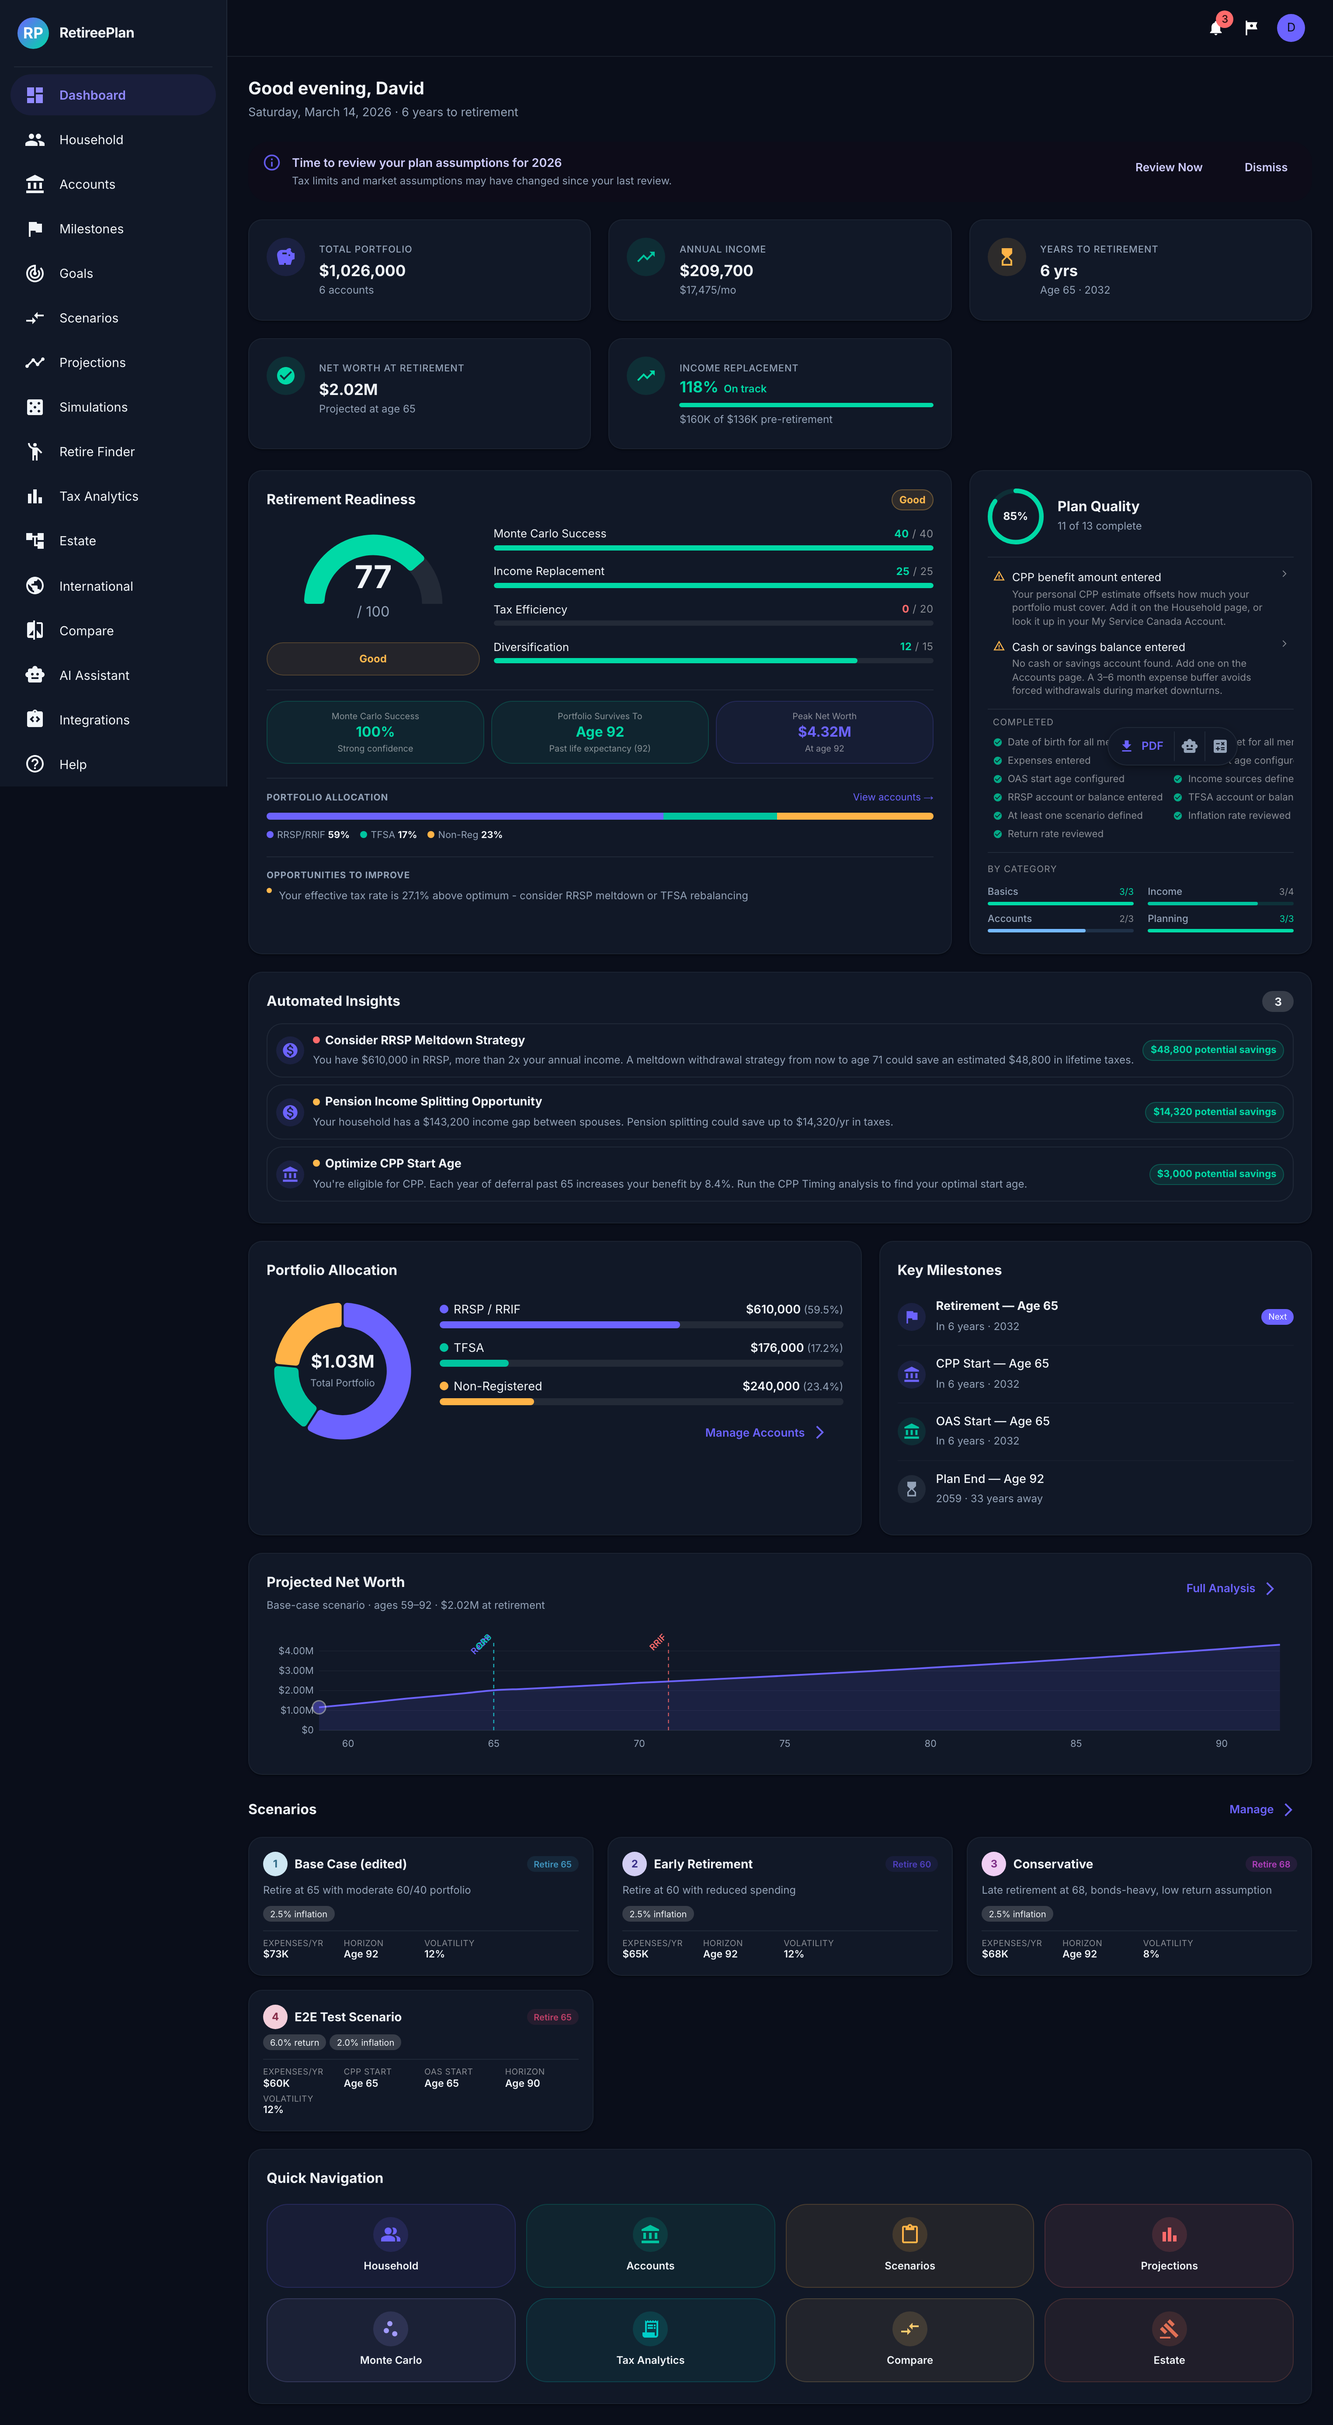
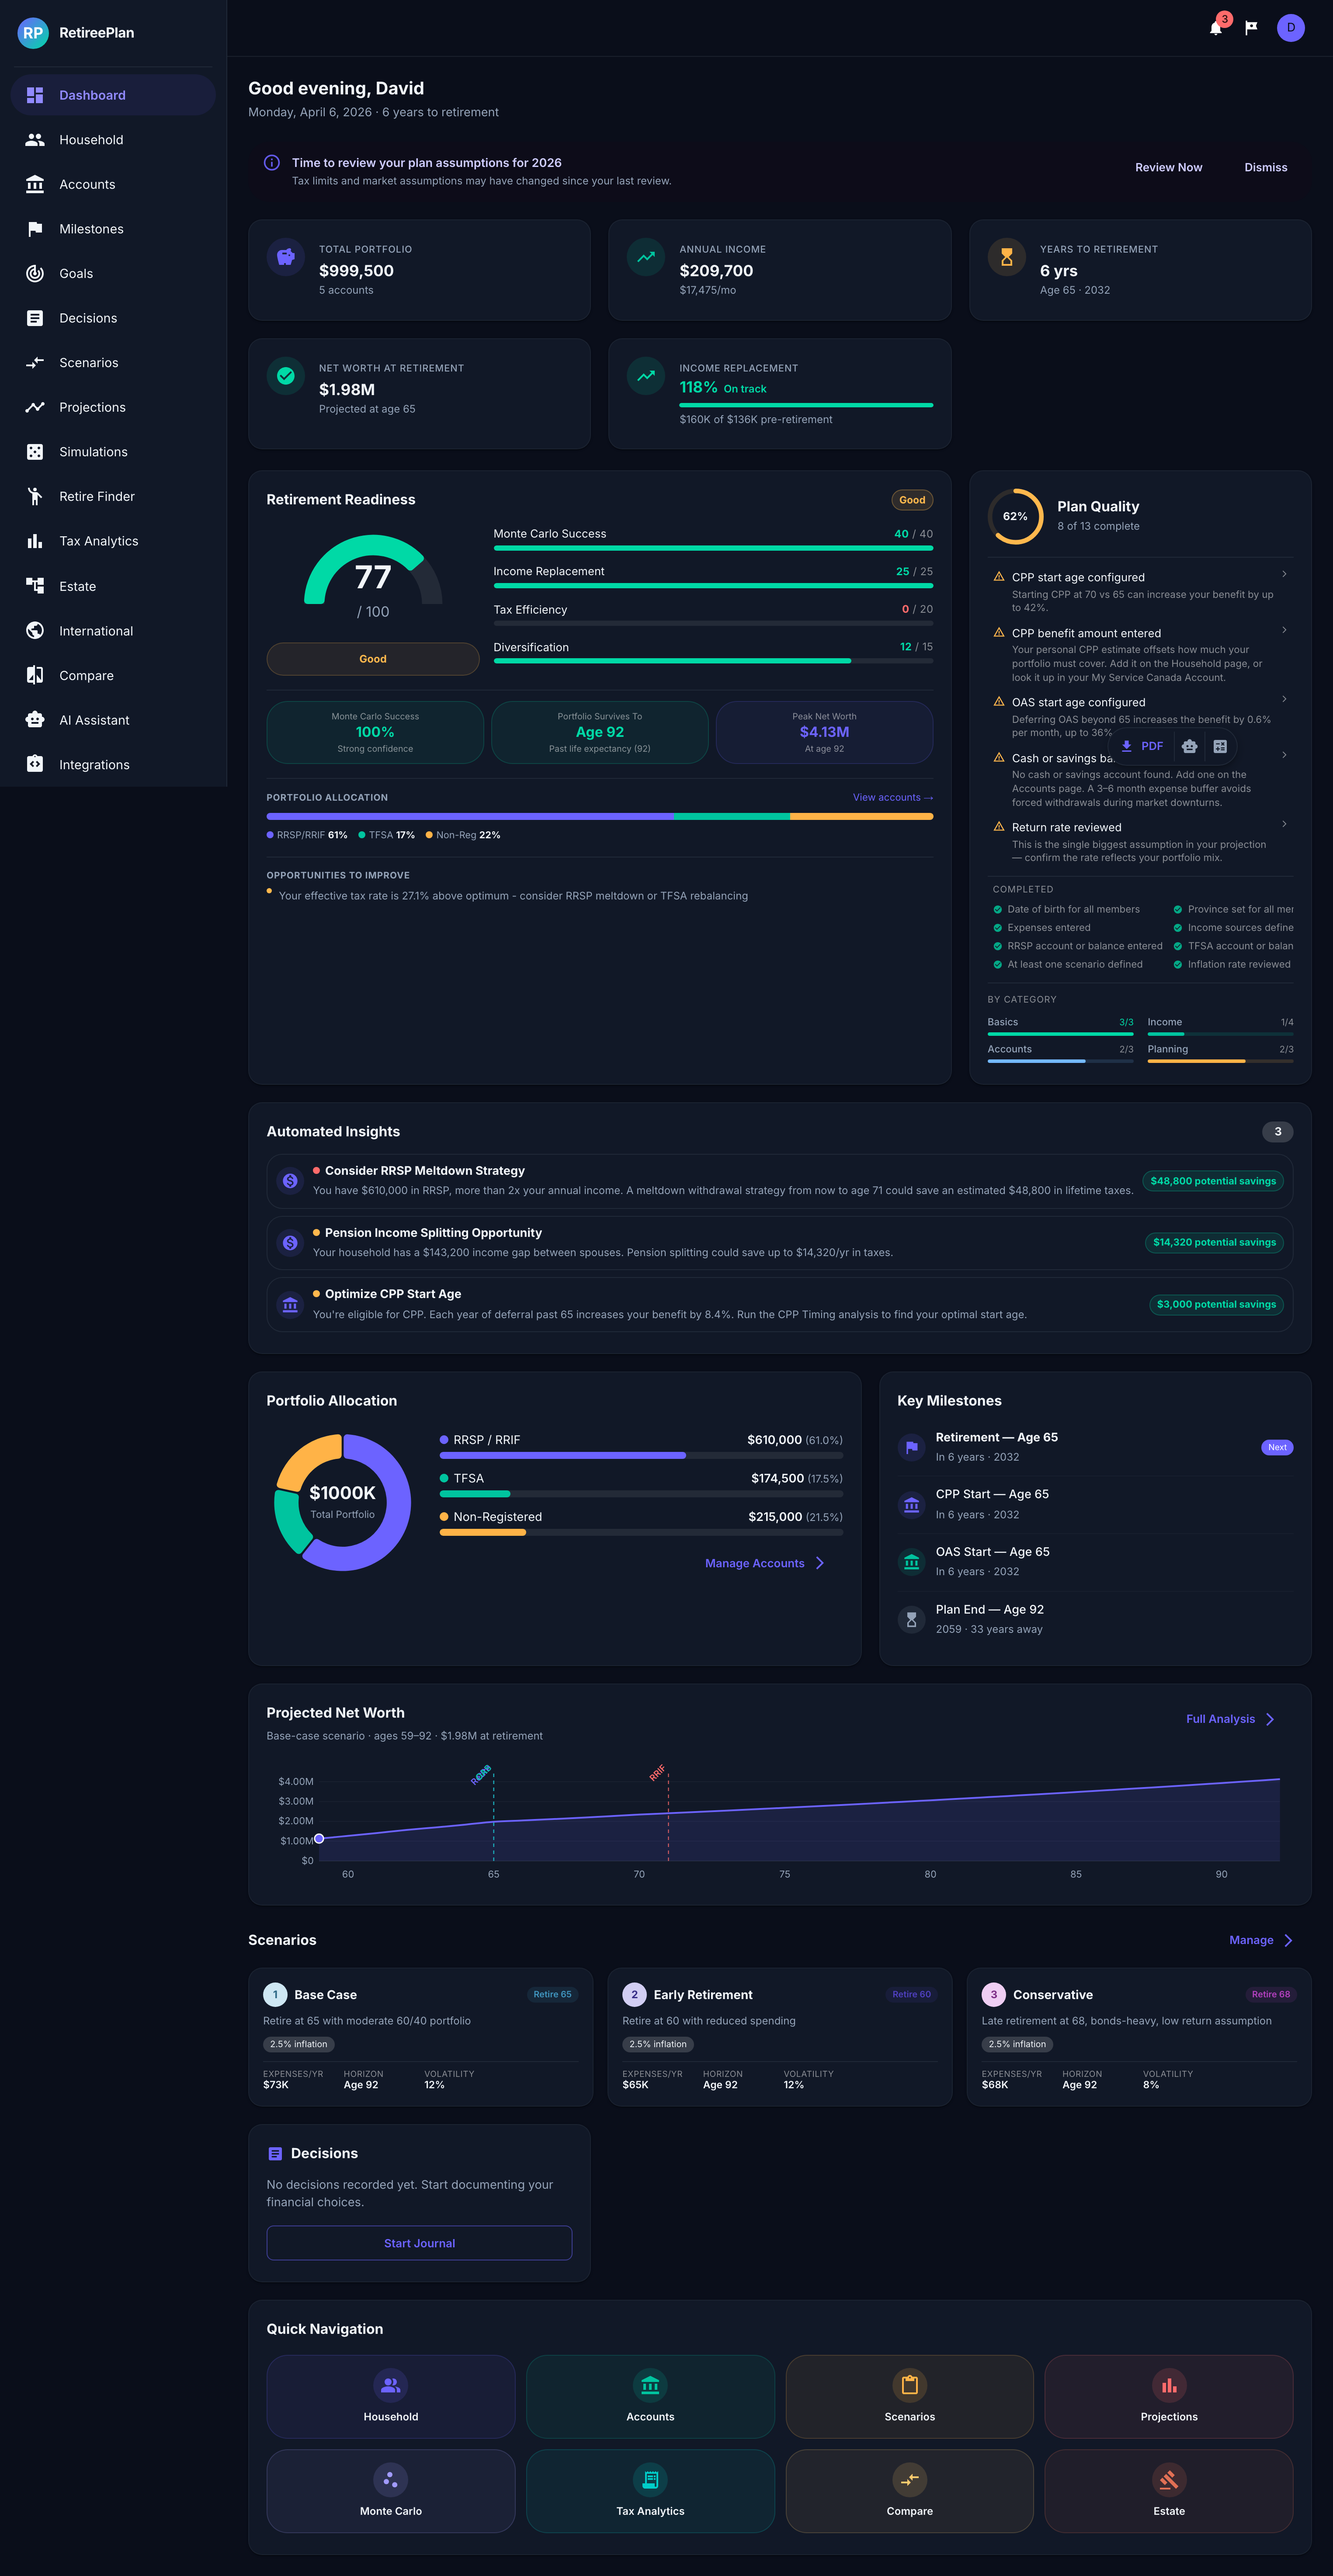
release: v0.0.36 — Decision Journal, security updates, docs refresh
Feature:
- Decision Journal + Mind Map (ADR-style tracking, D3 force graph, timeline view)
- Dashboard card showing decided/proposed/overdue counts
- Decisions sidebar nav item and /decisions route

Security / Dependency updates (Dependabot):
- electron 41.1.0 → 41.1.1
- @github/copilot-sdk ^0.2.0 → ^0.2.1
- @libsql/darwin-arm64 0.5.28 → 0.5.29
- @libsql/linux-x64-gnu 0.5.28 → 0.5.29
- @libsql/linux-x64-musl 0.5.28 → 0.5.29
- @nestjs/* ^11.1.16/^11.0.0 → ^11.1.18/^11.0.17
- @playwright/test ^1.52.0/^1.58.2 → ^1.59.1
- @rolldown/binding-darwin-x64 1.0.0-rc.12 → 1.0.0-rc.13
- @tanstack/react-query ^5.95.0 → ^5.96.2
- vite ^8.0.3 → ^8.0.4

Docs / Demo:
- decisions + mind map feature card in docs/index.html
- 2 new screenshots: 17-decisions.png, 18-decision-mindmap.png
- All 18 screenshots refreshed (onboarding suppressed)
- take-screenshots.ts: adds /decisions page + context.addInitScript for rp_onboarded

diff --git a/scripts/_screenshot-mindmap.ts b/scripts/_screenshot-mindmap.ts
@@ -1,0 +1,43 @@
+import { chromium } from 'playwright';
+import * as path from 'path';
+
+const BASE_URL = 'http://localhost:5173';
+const OUT = path.resolve(__dirname, '../docs/screenshots');
+
+(async () => {
+  const browser = await chromium.launch({ headless: true });
+  const ctx = await browser.newContext({
+    viewport: { width: 1440, height: 900 },
+    deviceScaleFactor: 2,
+  });
+  const page = await ctx.newPage();
+
+  await page.addInitScript(() => localStorage.setItem('rp_onboarded', 'true'));
+
+  // login
+  await page.goto(`${BASE_URL}/login`, { waitUntil: 'domcontentloaded' });
+  await page.fill('input[type="email"]', 'test@retireeplan.dev');
+  await page.fill('input[type="password"]', 'TestPassword123!');
+  await page.click('button[type="submit"]');
+  await page.waitForURL((u) => !u.pathname.includes('/login'), { timeout: 15_000 });
+
+  // navigate to decisions
+  await page.goto(`${BASE_URL}/decisions`, { waitUntil: 'domcontentloaded' });
+  await page.waitForSelector('text=Decision Journal', { timeout: 10_000 });
+  // Dismiss any open modal/dialog (e.g. onboarding wizard)
+  const closeBtn = page.locator('[role="dialog"] button[aria-label="Close"], [role="dialog"] button:has-text("×")');
+  if (await closeBtn.isVisible().catch(() => false)) await closeBtn.click();
+  await page.waitForTimeout(1000);
+
+  // click the 3rd toggle button (mind map)
+  const toggles = await page.locator('.MuiToggleButtonGroup-root button').all();
+  if (toggles.length >= 3) {
+    await toggles[2].click();
+    await page.waitForTimeout(2500); // wait for D3 simulation to settle
+  }
+
+  await page.screenshot({ path: `${OUT}/18-decision-mindmap.png`, fullPage: true });
+  console.log('✓ 18-decision-mindmap.png');
+
+  await browser.close();
+})();

diff --git a/docs/index.html b/docs/index.html
@@ -472,8 +472,11 @@
         <div class="icon">🖥</div>
         <h3>Desktop & Self-Hosted</h3>
         <p>Native macOS / Windows / Linux desktop app with bundled API, or run as Docker containers on your own server.</p>
-      </div>
-    </div>
+      </div>      <div class="feature-card">
+        <div class="icon">📝</div>
+        <h3>Decision Journal &amp; Mind Map</h3>
+        <p>Record every financial decision as a structured ADR — context, rationale, alternatives considered. Visualise the decision graph as an interactive D3 force-directed mind map, track supersession chains, and get alerts when decisions are due for review.</p>
+      </div>    </div>
   </div>
 </section>
 
@@ -482,7 +485,7 @@
   <div class="container">
     <div class="section-heading">
       <h2>Screenshots</h2>
-      <p>Projections, simulations, tax analytics, and more — all in one app.</p>
+      <p>Projections, simulations, tax analytics, decision journal, and more — all in one app.</p>
     </div>
     <div class="gallery-grid">
       <div class="gallery-item">
@@ -520,6 +523,14 @@
       <div class="gallery-item">
         <img src="screenshots/04-scenarios.png" alt="Scenarios" loading="lazy">
         <div class="caption">What-If Scenarios</div>
+      </div>
+      <div class="gallery-item">
+        <img src="screenshots/17-decisions.png" alt="Decision Journal" loading="lazy">
+        <div class="caption">Decision Journal</div>
+      </div>
+      <div class="gallery-item">
+        <img src="screenshots/18-decision-mindmap.png" alt="Decision Mind Map" loading="lazy">
+        <div class="caption">Decision Mind Map</div>
       </div>
     </div>
   </div>

diff --git a/scripts/take-screenshots.ts b/scripts/take-screenshots.ts
@@ -40,8 +40,7 @@ const PAGES: Array<{ route: string; filename: string; waitFor?: string; note?: s
   { route: '/goals',         filename: '13-goals.png',           waitFor: 'text=Goals' },
   { route: '/ai-chat',       filename: '14-ai-chat.png',         waitFor: 'text=AI' },
   { route: '/integrations',  filename: '15-integrations.png',    waitFor: 'text=Integrations' },
-  { route: '/settings',      filename: '16-settings.png',        waitFor: 'text=Settings' },
-];
+  { route: '/settings',      filename: '16-settings.png',        waitFor: 'text=Settings' },  { route: '/decisions',     filename: '17-decisions.png',     waitFor: 'text=Decision Journal' },];
 
 async function login(page: Page) {
   await page.goto(`${BASE_URL}/login`);
@@ -78,6 +77,10 @@ async function screenshot(page: Page, route: string, filename: string, waitFor?:
   const context = await browser.newContext({
     viewport: { width: 1440, height: 900 },
     deviceScaleFactor: 2, // retina quality
+  });
+  // Suppress the onboarding wizard and any first-run dialogs globally
+  await context.addInitScript(() => {
+    localStorage.setItem('rp_onboarded', 'true');
   });
   const page = await context.newPage();
 
